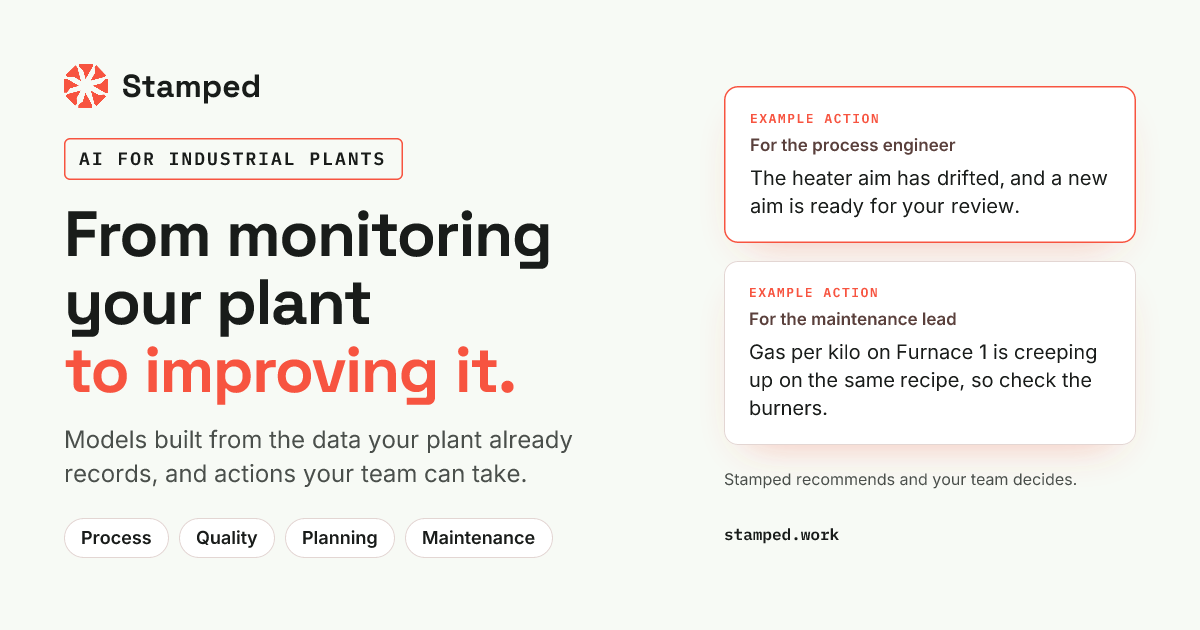
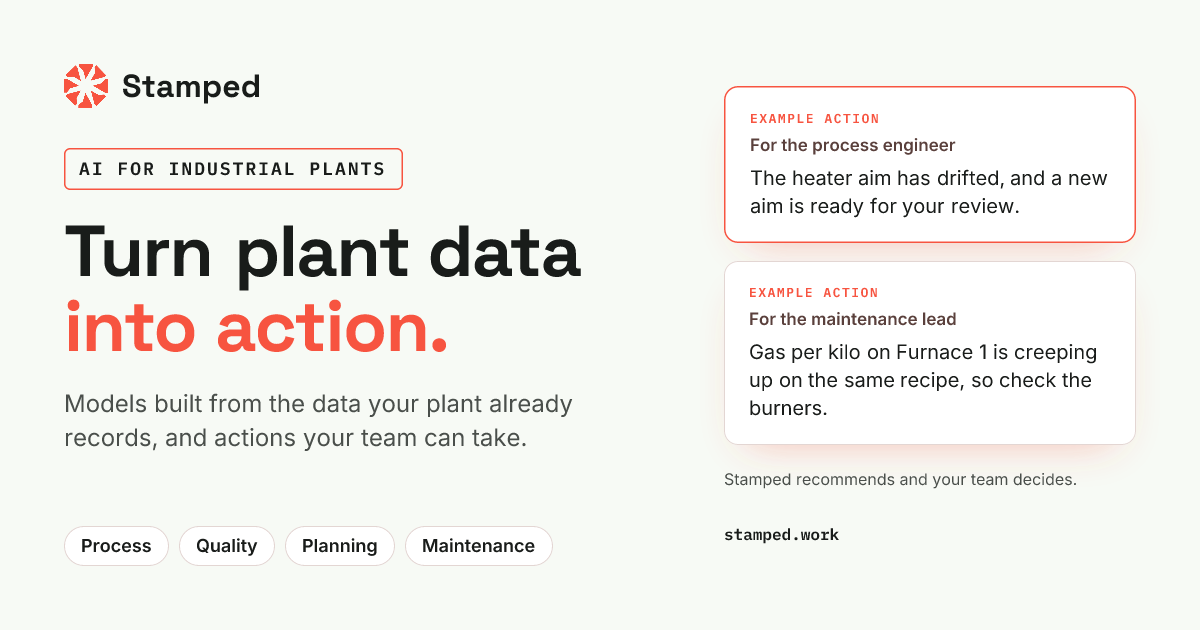
copy(home): restore hero headline Turn plant data into action; re-render share image

diff --git a/lib/seo/constants.ts b/lib/seo/constants.ts
@@ -6,11 +6,11 @@ export const SITE_URL = SITE_ORIGIN.replace(/\/$/, "");
 export const DEFAULT_OG_IMAGE_PATH = "/og-default.png";
 
 /** Bump when replacing public/og-default.png so social crawlers refetch the asset. */
-export const DEFAULT_OG_IMAGE_VERSION = "20261003-industrial";
+export const DEFAULT_OG_IMAGE_VERSION = "20261004-turn-data";
 
 export const DEFAULT_OG_IMAGE = `${SITE_URL}${DEFAULT_OG_IMAGE_PATH}?v=${DEFAULT_OG_IMAGE_VERSION}`;
 
-export const DEFAULT_OG_IMAGE_ALT = "Stamped · AI for industrial plants. From monitoring your plant to improving it.";
+export const DEFAULT_OG_IMAGE_ALT = "Stamped · AI for industrial plants. Turn plant data into action.";
 
 export const ORGANIZATION_ID = `${SITE_URL}/#organization`;
 

diff --git a/lib/content/landing.ts b/lib/content/landing.ts
@@ -24,9 +24,9 @@ export type HomeActionCard = {
 export const landingContent = {
   hero: {
     badge: "AI for industrial plants",
-    headline: "From monitoring your plant to improving it.",
-    headlineLine1: "From monitoring your plant",
-    headlineLine2: "to improving it.",
+    headline: "Turn plant data into action.",
+    headlineLine1: "Turn plant data",
+    headlineLine2: "into action.",
     supportingLine:
       "Stamped builds models of your plant from the data it already records, finds where efficiency is lost across process, quality, planning and maintenance, and improves it with actions your team can take.",
     primaryCta: { label: "Book a site survey", href: "/contact" } satisfies CtaLink,

diff --git a/docs/copy/stamped-copy-v3.md b/docs/copy/stamped-copy-v3.md
@@ -44,7 +44,7 @@ Avoid "machine learning and AI" as a stock phrase, and avoid "AI-powered", "cutt
 
 | Line | Where it goes |
 |---|---|
-| **From monitoring your plant to improving it.** | Homepage H1 |
+| **From monitoring your plant to improving it.** | Homepage H1 until 4 Oct 2026; the H1 is now "Turn plant data into action." (ADR-044) |
 | **AI for industrial plants** | Homepage hero eyebrow above the H1 (3 Oct 2026: broad on purpose, no sector or country) |
 | **AI for plant operations.** | Title tag, LinkedIn tagline, email signature, footer |
 | **Turn plant data into action.** | Heading of the "What Stamped does" section and the final call-to-action band |
@@ -179,7 +179,7 @@ Optional line for the About page, for people searching the old name: "Stamped wa
 
 - **Title tag:** Stamped | AI for plant operations
 - **Meta description (also the share text):** Stamped is AI for industrial plants. It models your plant from the data it already records and improves process, quality, planning and maintenance.
-- **Share image (`public/og-default.png`):** logo, eyebrow "AI for industrial plants", the hero headline, the four areas and two example actions, with "Stamped recommends and your team decides."
+- **Share image (`public/og-default.png`):** logo, eyebrow "AI for industrial plants", the hero headline (re-rendered 4 Oct 2026 with "Turn plant data into action."), the four areas and two example actions, with "Stamped recommends and your team decides."
 - **LinkedIn tagline:** AI for plant operations. From monitoring your plant to improving it.
 - **Email signature:** Stamped, AI for plant operations, stamped.work
 - **Primary call to action:** Book a site survey

diff --git a/DECISIONS.md b/DECISIONS.md
@@ -805,3 +805,9 @@ Architecture and workflow decisions for this project.
 **Context:** Example action sections said "Example actions" in the heading and again as an "Example" pill on every card, and many cards carried three to five [bracketed] placeholders.
 **Decision:** The per-card "Example" pill is dropped wherever the section is already headed "Example actions" (homepage hero panel and mobile strip, solution pages, industry pages); the energy cards on `/solutions` keep it because that section has no such heading. Every example action now has at most one [bracketed] placeholder, and most have none: machine names are written plainly (Furnace 2, Press 3, bin 14) and secondary numbers are described in words.
 **Impact:** Supersedes the per-card "Example" label in ADR-033's card rule. The "Numbers in [brackets] are placeholders" notes stay.
+
+## ADR-044: Homepage H1 back to "Turn plant data into action." (4 Oct 2026)
+
+**Context:** The copy v3 H1 "From monitoring your plant to improving it." replaced the original line in ADR-033. Vinayak asked for the original back.
+**Decision:** The homepage H1 is "Turn plant data into action." again (two lines: "Turn plant data" / "into action."). The share image, its alt text and its cache version, and `llms.txt` follow. The supporting line, badge and the rest of the page are unchanged.
+**Impact:** The same line is also the "What Stamped does" heading, the closing call to action and the footer tagline, so it now appears four times on the homepage.

diff --git a/docs/website-copy.md b/docs/website-copy.md
@@ -26,7 +26,7 @@ CTA is "Book a site survey" → `/contact`; no em dashes.
 
 Copy v3 section 9, top to bottom. Source: `lib/content/landing.ts`.
 
-- **Hero:** "From monitoring your plant to improving it." + approved short subhead. Example action ticker
+- **Hero:** "Turn plant data into action." (restored 4 Oct 2026, ADR-044) + approved short subhead. Example action ticker
   (`hero.actionCards`, rendered by `components/sections/hero/HeroPlantFlow.tsx`).
 - **Problem:** "Every plant has data. Very few turn it into action." (`homeProblem`).
 - **What Stamped does:** approved short outcomes text, word for word (`whatIs.paragraphs`).
